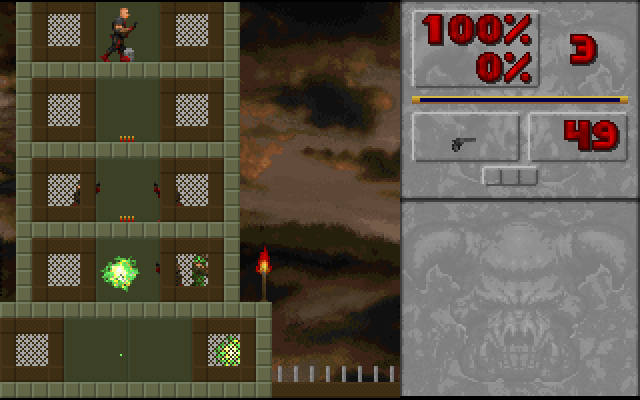
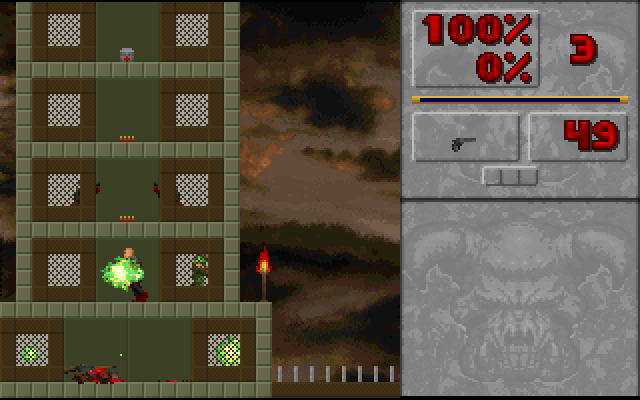
Headless runs are reproducible; pack ships the license
- Glob.Reset(seed): every headless mode reseeds the RNG, so a command always
  produces the same frame. That makes the docs images and the CI checks stable.
- Regenerate the deathmatch and level14 screenshots with the fixed seed.
- build.ps1 -Pack: copy LICENSE and CHANGELOG.md into dist (GPLv2 requires the
  license to travel with the binaries).

diff --git a/Doom2D/Headless.cs b/Doom2D/Headless.cs
@@ -14,9 +14,15 @@ namespace Doom2D
     /// </summary>
     public static class Headless
     {
+        /// <summary>
+        /// Fixed seed for every headless run: a given command always produces the
+        /// same frames, so the documentation images and the CI checks are stable.
+        /// </summary>
+        public const int Seed = 20261117;
         /// <summary>--simulate &lt;ticks&gt; &lt;out.bmp&gt; [map] [keys] [2p|dm]</summary>
         public static int Run(int ticks, string output, int map, string keys, bool twoPl = false, bool dm = false)
         {
+            Glob.Reset(Seed);
             Vga.Init(320, 200);
             Vga.SetRect(0, 320, 0, 200);
 
@@ -61,6 +67,7 @@ namespace Doom2D
         /// <summary>--shell &lt;ticks&gt; &lt;out.bmp&gt; [keys]: the front end, from the title screen.</summary>
         public static int Shell(int ticks, string output, string keys)
         {
+            Glob.Reset(Seed);
             Vga.Init(320, 200);
             Vga.SetRect(0, 320, 0, 200);
 
@@ -92,6 +99,7 @@ namespace Doom2D
         /// <summary>--saveload &lt;ticks&gt;: play, save, quit, load, verify the state survives.</summary>
         public static int SaveLoad(int ticks)
         {
+            Glob.Reset(Seed);
             Vga.Init(320, 200);
             Vga.SetRect(0, 320, 0, 200);
 
@@ -135,6 +143,7 @@ namespace Doom2D
         /// <summary>--levelend &lt;map&gt;: stand on the exit switch and confirm the map changes.</summary>
         public static int LevelEnd(int map)
         {
+            Glob.Reset(Seed);
             Vga.Init(320, 200);
             Vga.SetRect(0, 320, 0, 200);
 
@@ -175,6 +184,7 @@ namespace Doom2D
         /// <summary>--switches &lt;map&gt;: every switch the map defines.</summary>
         public static int SwitchList(int map)
         {
+            Glob.Reset(Seed);
             Vga.Init(320, 200);
             Vga.SetRect(0, 320, 0, 200);
 

diff --git a/Doom2D/Engine/Glob.cs b/Doom2D/Engine/Glob.cs
@@ -9,7 +9,17 @@ namespace Doom2D.Engine
         public const int Delay = 50;
 
         /// <summary>myrand(a) — rand()%a from the original.</summary>
-        static readonly Random rng = new Random();
+        static Random rng = new Random();
+
+        /// <summary>
+        /// Reseeds the generator. Headless runs use a fixed seed so a given
+        /// command always produces the same frames — that is what makes the
+        /// documentation screenshots and the CI checks reproducible.
+        /// </summary>
+        public static void Reset(int seed)
+        {
+            rng = new Random(seed);
+        }
 
         public static int Rand(int a)
         {

diff --git a/docs/BUILDING.md b/docs/BUILDING.md
@@ -47,7 +47,7 @@ Doom2D.exe
 Doom2D.exe.config
 SDL2.dll  FNA3D.dll  FAudio.dll  libtheorafile.dll
 Data/doom2d.wad  Data/default.cfg  Data/Music/*.xm-подобные
-README.md
+README.md  LICENSE  CHANGELOG.md
 ```
 
 Папку можно копировать на любую Windows-машину с .NET Framework 4.0
@@ -91,6 +91,11 @@ Doom2D.exe --simulate 300 out.bmp 1 "5:right,40:fire,44:-fire"
 
 `--saveload` играет, сохраняет, обнуляет мир, загружает и сверяет координаты,
 патроны, жизни и фраги. Возвращает код 1 при расхождении — годится для CI.
+
+Все headless-режимы пересеивают генератор случайных чисел фиксированным зерном
+(`Headless.Seed`), поэтому одна и та же команда всегда даёт один и тот же кадр.
+На этом держатся и проверки в CI, и скриншоты в `docs/images`: их можно
+перегенерировать и увидеть настоящий diff, если что-то изменилось.
 
 ## CI
 

diff --git a/README.md b/README.md
@@ -5,7 +5,7 @@
 **Doom 2D** (Prikol Software, 1996) — переписанный под XNA/FNA.
 Геймплей один-в-один, движок современный.
 
-[![build](https://github.com/Doom2D/doom2d-xna/actions/workflows/build.yml/badge.svg)](../../actions/workflows/build.yml)
+[![build](../../actions/workflows/build.yml/badge.svg)](../../actions/workflows/build.yml)
 ![platform](https://img.shields.io/badge/platform-Windows%20x64-4a7ebb)
 ![framework](https://img.shields.io/badge/.NET-net40%20%2F%20FNA-512bd4)
 ![license](https://img.shields.io/badge/license-GPLv2-9d2b2b)
